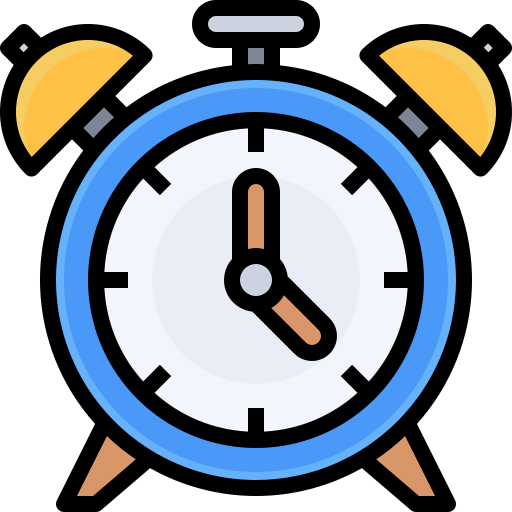
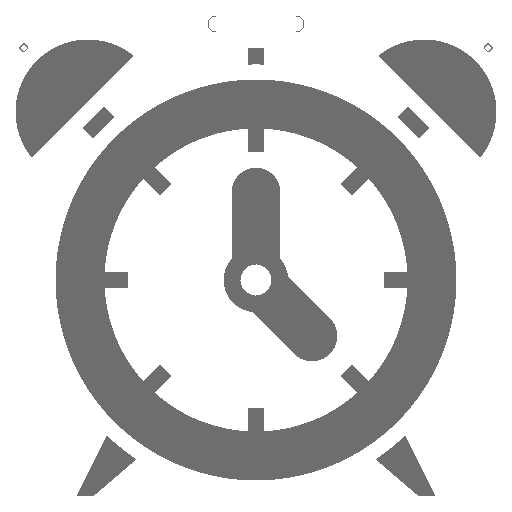
Polish empty states and logged out welcome

diff --git a/web-app/index.html b/web-app/index.html
@@ -37,7 +37,7 @@
 <body>
   <script>
     (function () {
-      var resetKey = 'listooo-sw-reset-20260710-sync';
+      var resetKey = 'listooo-sw-reset-45e0bbd2';
       if (!('serviceWorker' in navigator) || window.localStorage.getItem(resetKey)) {
         return;
       }
@@ -63,14 +63,14 @@
     })();
   </script>
   <!--
-    You can customize the "flutter_bootstrap.js" script.
+    You can customize the "flutter_bootstrap.js?v=45e0bbd2" script.
     This is useful to provide a custom configuration to the Flutter loader
     or to give the user feedback during the initialization process.
 
     For more details:
     * https://docs.flutter.dev/platform-integration/web/initialization
   -->
-  <script src="flutter_bootstrap.js?v=20260710-sync" async></script>
+  <script src="flutter_bootstrap.js?v=45e0bbd2" async></script>
 </body>
 </html>
 

diff --git a/web-app/flutter_bootstrap.js b/web-app/flutter_bootstrap.js
@@ -33,10 +33,10 @@ addEventListener("message", eventListener);
 if (!window._flutter) {
   window._flutter = {};
 }
-_flutter.buildConfig = {"engineRevision":"77e2e94772b6eb43759e34ed1ad7da4674e19cab","builds":[{"compileTarget":"dart2js","renderer":"canvaskit","mainJsPath":"main.7c60bc1f.dart.js"},{}]};
+_flutter.buildConfig = {"engineRevision":"77e2e94772b6eb43759e34ed1ad7da4674e19cab","builds":[{"compileTarget":"dart2js","renderer":"canvaskit","mainJsPath":"main.45e0bbd2.dart.js"},{}]};
 
 _flutter.loader.load({
   serviceWorkerSettings: {
-    serviceWorkerVersion: "3062249444" /* Flutter's service worker is deprecated and will be removed in a future Flutter release. */
+    serviceWorkerVersion: "187551745" /* Flutter's service worker is deprecated and will be removed in a future Flutter release. */
   }
 });